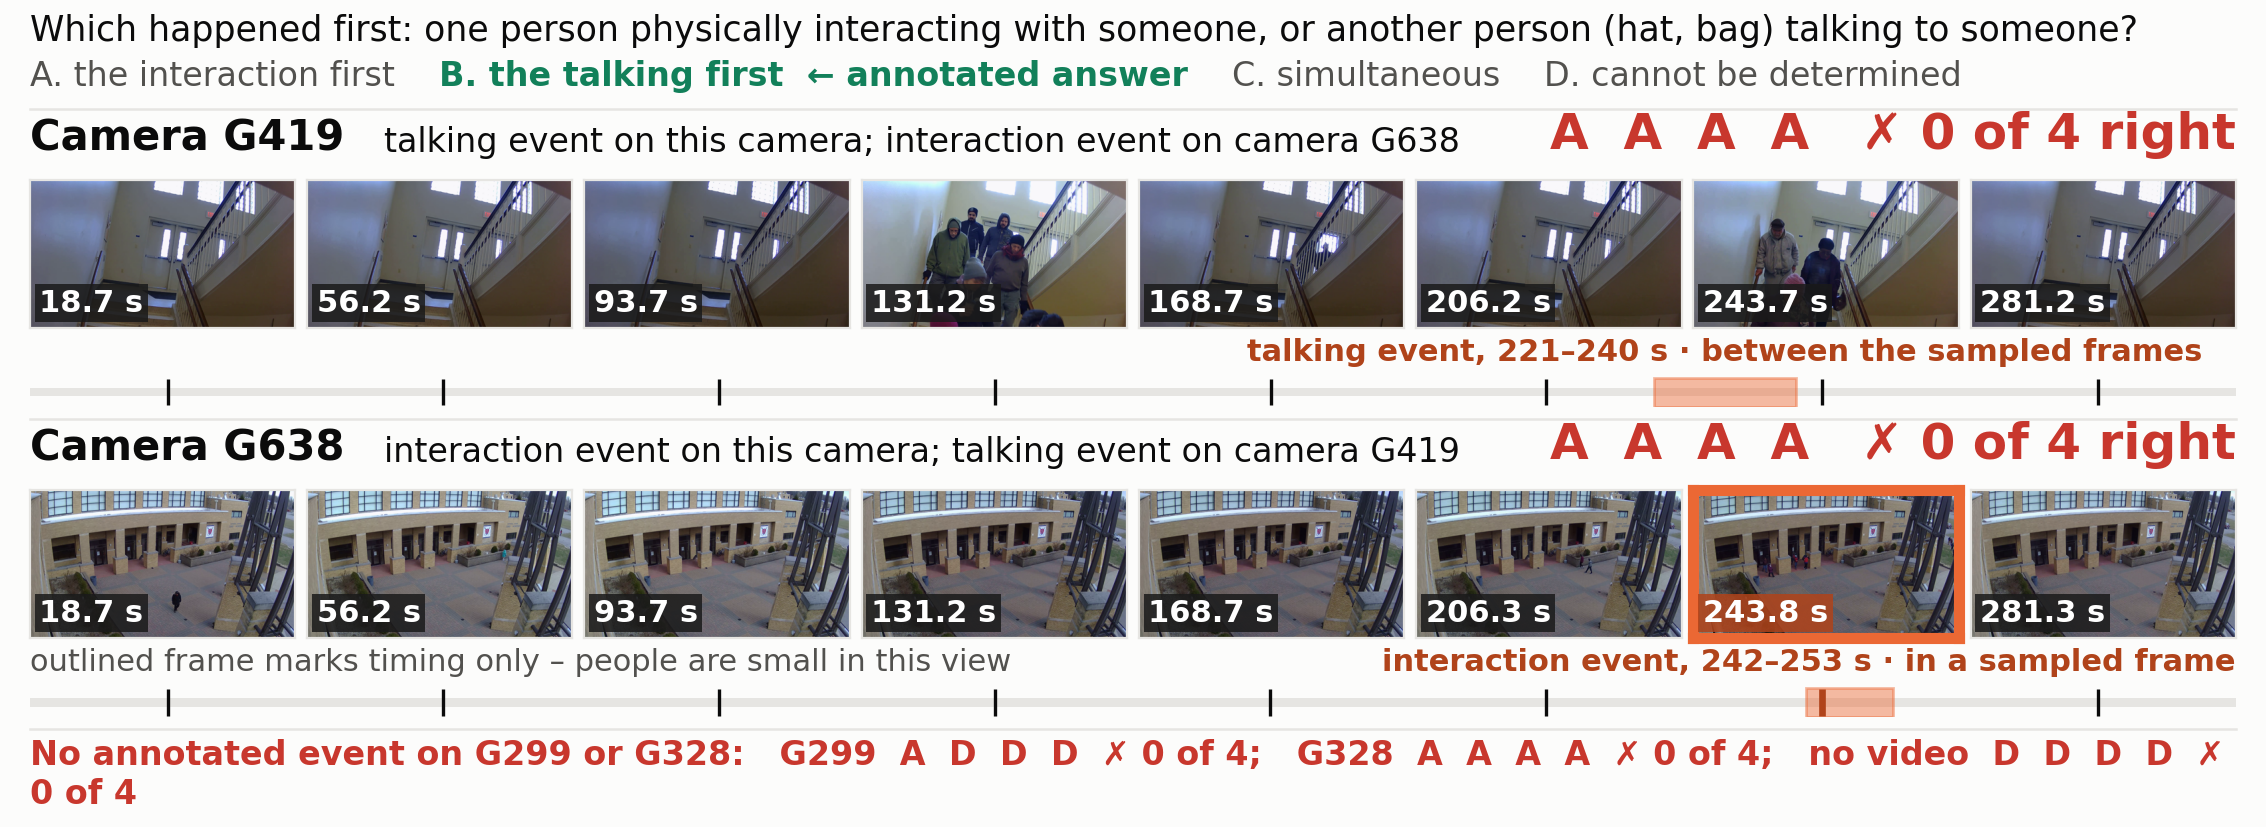
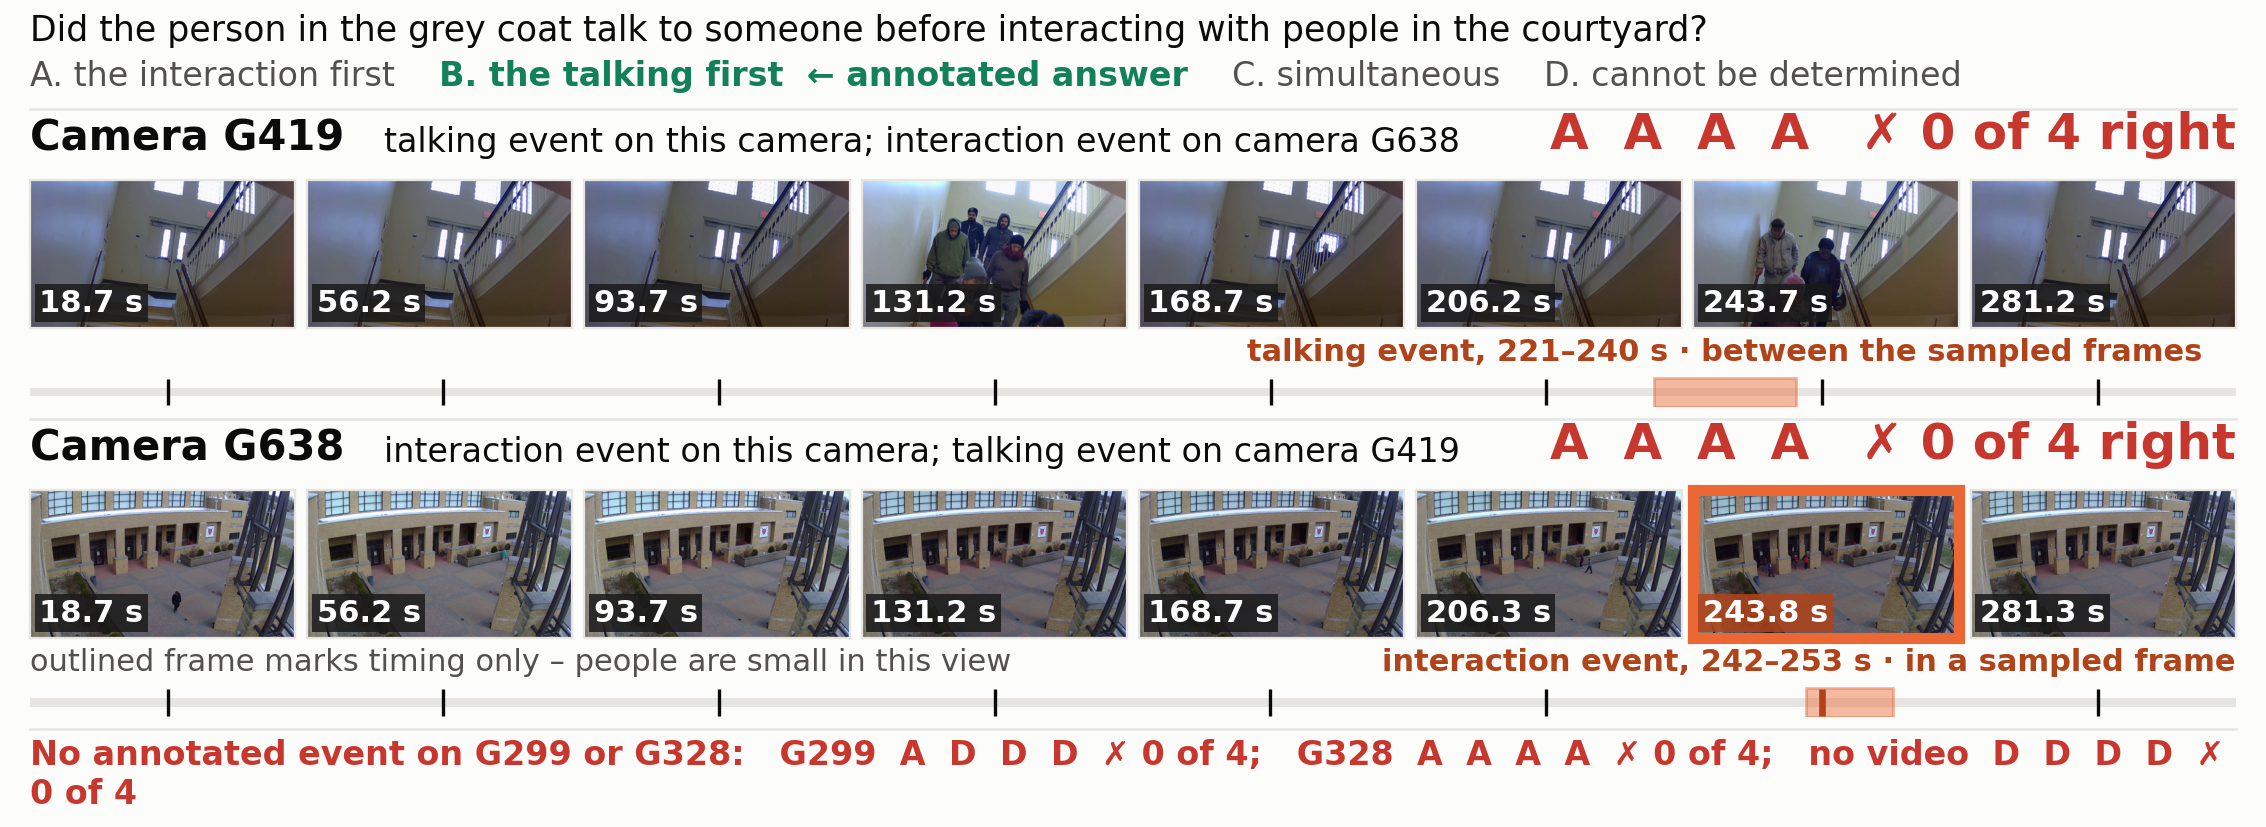
demo: the case's short question names the person in the grey coat
The abbreviated question on the two case figures and in the rail now reads
"Did the person in the grey coat talk to someone before interacting with
people in the courtyard?". The verbatim release question and options are
unchanged in case_q954.json.

render_case_contrast.py carries the same text, so a re-render reproduces the
committed files: rendered from this commit and cropped as before, both figures
are pixel-identical to the ones here.

Changed region(s): [[0.0, 0.0, 0.9576, 0.0605]]

diff --git a/demo/scripts/render_case_contrast.py b/demo/scripts/render_case_contrast.py
@@ -103,8 +103,8 @@ MOTIVATION = os.path.join(REPO, "docs", "figs", "demo_2026-09-22", "motivation.j
 # "events" names each annotated event (gold order) in one word. A question without an entry
 # falls back to the verbatim text.
 SHORT = {
-    954: {"question": "Which happened first: one person physically interacting with someone, or another person "
-                      "(hat, bag) talking to someone?",
+    954: {"question": "Did the person in the grey coat talk to someone before interacting with people in the "
+                      "courtyard?",
           "options": {"A": "the interaction first", "B": "the talking first", "C": "simultaneous",
                       "D": "cannot be determined"},
           "events": {"E1": "talking", "E2": "interaction"}},
